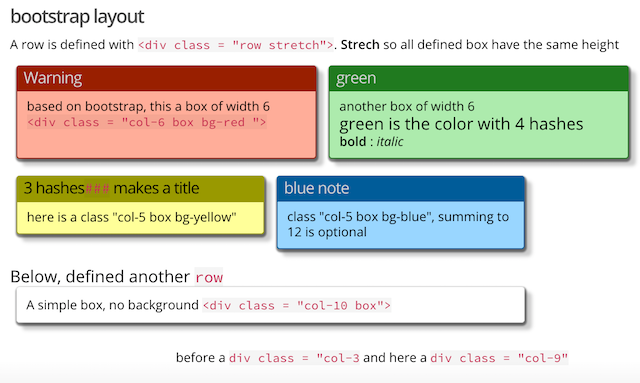
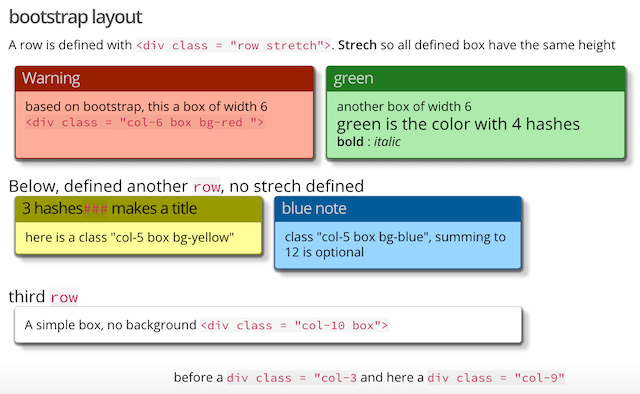
emphase 2nd row is not streched

diff --git a/iosp.html b/iosp.html
@@ -137,6 +137,8 @@
 
 <p><strong>bold</strong> : <em>italic</em></p></div></div>
 
+Below, defined another <code>row</code>, no strech defined
+
 <div class="row">
 <div class="col-5 box bg-yellow">
 <h3>3 hashes<code>###</code> makes a title</h3>
@@ -148,7 +150,7 @@
 
 <p>class &quot;col-5 box bg-blue&quot;, summing to 12 is optional</p></div></div>
 
-Below, defined another <code>row</code>
+third <code>row</code>
 
 <div class="row">
 <div class="col-10 box">
